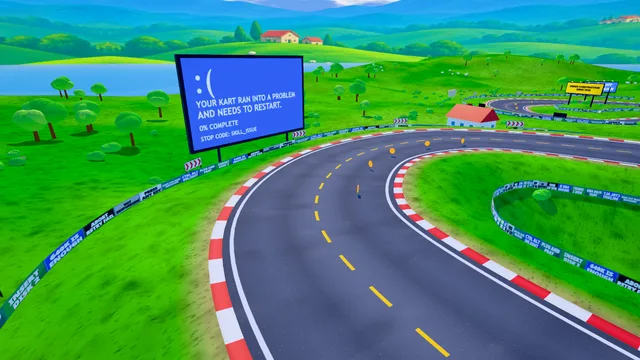
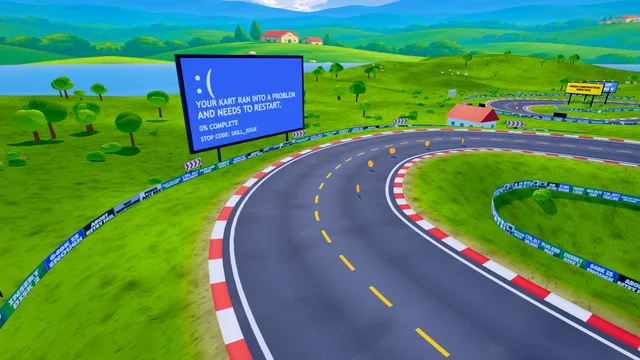
Bliss Hills: one sky and one lawn, all the way round (#65)
The photo-matched sky was a patch with an edge: from other angles it met the
ordinary sky in a visible seam, with different colors and different clouds.
The measured sky is now baked over the whole dome. The opening view still
lines up with the reference, and the same color columns and the same kind of
cloud carry on round the horizon.

The rest of the track now wears the wallpaper's greens too: terrain, cloud
shadows, trees, bushes, and the painted far hills are all on the calibrated
palette, so the famous hill no longer looks like a patch of different grass.
The far hills and the cleared horizon that the opening shot needs are shown
only during that shot.

diff --git a/src/render/cloudcard.js b/src/render/cloudcard.js
@@ -1,12 +1,18 @@
-/* A measured sky on a card: a grid of clear-sky colors and a grid of cloud cover,
-   both given in the pixel coordinates of a reference picture, baked once into a
-   texture and hung far away so that a camera at the reference viewpoint sees the
-   same sky. The clouds are generated from the cover grid (soft noise breaks up
-   its cells and shades the puffs); nothing of the picture itself is used. */
+/* A measured sky for the whole dome. A grid of clear-sky colors and a grid of
+   cloud cover, both taken from a reference picture, describe the part of the sky
+   that picture shows; the same colors and the same kind of cloud are continued
+   all the way round, so the sky has no edge. It is baked once into two textures:
+   a sharp one for the picture's own part of the sky, and a panorama for the rest.
+   The sky shader shows them by direction (see Sky.setDome), so from the
+   reference viewpoint the sky lines up with the picture, and from anywhere else
+   it is simply the sky. The clouds are generated from the cover grid and from
+   noise; nothing of the picture itself is used. */
 import * as THREE from 'three';
 import { FullScreenQuad } from 'three/addons/postprocessing/Pass.js';
 
-const NEUTRAL = /* glsl */`
+const SHADE = /* glsl */`
+  precision highp float;
+  uniform sampler2D uCover, uSky; uniform vec2 uTan, uCoverSize, uSkySize; uniform float uCoverRows;
   // the renderer's neutral tone curve, so its effect can be undone: what is baked is the color that comes out as the one wanted
   vec3 neutral(vec3 color) {
     float x = min(color.r, min(color.g, color.b)); float offset = x < 0.08 ? x - 6.25 * x * x : 0.04; color -= offset;
@@ -14,83 +20,107 @@ const NEUTRAL = /* glsl */`
     float d = 0.24, newPeak = 1.0 - d * d / (peak + d - 0.76); color *= newPeak / peak;
     float g = 1.0 - 1.0 / (0.15 * (peak - newPeak) + 1.0); return mix(color, vec3(newPeak), g);
   }
-  vec3 unNeutral(vec3 want) { vec3 c = want; for (int i = 0; i < 7; i++) c *= want / max(neutral(c), vec3(1e-4)); return c; }`;
+  vec3 unNeutral(vec3 want) { vec3 c = want; for (int i = 0; i < 7; i++) c *= want / max(neutral(c), vec3(1e-4)); return c; }
+  // noise on the direction itself, so it has no seam anywhere on the dome; K turns a direction into picture-pixel units
+  const float K = 1484.0;
+  float hash3(vec3 p) { p = fract(p * 0.3183099 + 0.1); p *= 17.0; return fract(p.x * p.y * p.z * (p.x + p.y + p.z)); }
+  float noise3(vec3 x) {
+    vec3 i = floor(x), f = fract(x); f = f * f * (3.0 - 2.0 * f);
+    return mix(mix(mix(hash3(i), hash3(i + vec3(1, 0, 0)), f.x), mix(hash3(i + vec3(0, 1, 0)), hash3(i + vec3(1, 1, 0)), f.x), f.y),
+               mix(mix(hash3(i + vec3(0, 0, 1)), hash3(i + vec3(1, 0, 1)), f.x), mix(hash3(i + vec3(0, 1, 1)), hash3(i + vec3(1, 1, 1)), f.x), f.y), f.z);
+  }
+  float fbm3(vec3 p) { float a = 0.5, s = 0.0; for (int i = 0; i < 5; i++) { s += a * noise3(p); p = p * 2.03 + 11.7; a *= 0.5; } return s; }
+  // where a direction falls in the reference picture (the viewer looks along +x; 1920 x 1080, y down)
+  vec2 pic(vec3 d) { return vec2(960.0 + (d.z / d.x) / (2.0 * uTan.x) * 1920.0, 540.0 - (d.y / d.x) / (2.0 * uTan.y) * 1080.0); }
+  // 1 inside the picture's own patch of sky, fading out just beyond its sides and top
+  float inFrame(vec3 d) {
+    if (d.x < 0.25) return 0.0;
+    vec2 p = pic(d); float o = max(max(-p.x, p.x - 1920.0), -p.y);
+    return (1.0 - smoothstep(0.0, 170.0, o)) * smoothstep(0.25, 0.45, d.x);
+  }
+  // cloud cover everywhere else: scattered cumulus on a plane overhead, plus a low band along the horizon, as in the picture
+  float fillCover(vec3 d) {
+    float up = max(d.y, 0.0);
+    vec3 q = vec3(d.x, 0.0, d.z) / (up + 0.16);
+    float puffs = smoothstep(0.50, 0.68, fbm3(q * 1.5 + 4.2)) * smoothstep(0.03, 0.14, up) * (1.0 - smoothstep(0.62, 0.92, up));
+    float band = smoothstep(0.46, 0.62, fbm3(q * 0.55 + 9.1)) * (1.0 - smoothstep(0.02, 0.17, up)) * smoothstep(-0.02, 0.03, d.y);
+    return clamp(max(puffs, band * 0.95), 0.0, 1.0);
+  }
+  float coverAt(vec3 d) {
+    float w = inFrame(d), c = fillCover(d);
+    if (w > 0.0) {
+      vec3 P = d * K; vec2 p = pic(d) + (vec2(fbm3(P / 34.0), fbm3(P / 34.0 + 7.3)) - 0.5) * 16.0;   // a soft warp, so the grid's cells never show
+      float m = p.y < uCoverRows ? texture2D(uCover, clamp(p / uCoverSize, 0.0, 1.0)).r : 0.0;
+      c = mix(c, m, w);
+    }
+    return c;
+  }
+  // the cover, billowed: big lobes push the edge in and out, smaller ones scallop it, fine ones fray it
+  float dens(vec3 d) {
+    float c = coverAt(d), e = smoothstep(0.02, 0.28, c) * (1.0 - 0.45 * smoothstep(0.55, 1.0, c)); vec3 P = d * K;
+    float lobes = abs(fbm3(P / 58.0) - 0.5) * 2.0, scallop = abs(fbm3(P / 23.0 + 3.1) - 0.5) * 2.0, fray = fbm3(P / 8.0 + 9.7) - 0.5;
+    return clamp(c + ((0.55 - lobes) * 0.5 + (0.5 - scallop) * 0.36 + fray * 0.2) * e, 0.0, 1.0);
+  }
+  // the clear sky: the picture's own colors inside its frame; beyond it, the same color columns carried on round the horizon
+  vec3 clearSky(vec3 d) {
+    float az = atan(d.z, d.x), el = asin(clamp(d.y, -1.0, 1.0));
+    float rowFlat = 540.0 - tan(clamp(el, -1.2, 1.2)) / (2.0 * uTan.y) * 1080.0, row = rowFlat, col;
+    if (abs(az) < 0.84) { vec2 p = pic(d); col = clamp(p.x, 0.0, 1920.0); row = mix(p.y, rowFlat, smoothstep(0.60, 0.84, abs(az))); }   // the frame itself reaches 0.575
+    else col = mix(1920.0, 0.0, smoothstep(2.62, 3.67, az < 0.0 ? az + 6.28318530718 : az));      // the deep side meets the hazy side behind the viewer
+    vec3 c = texture2D(uSky, vec2(col, max(row, 0.0)) / uSkySize).rgb;
+    return mix(c, c * vec3(0.5, 0.72, 0.96), smoothstep(0.37, 1.15, el));                          // deeper toward the zenith
+  }
+  vec3 shade(vec3 d) {
+    vec3 blue = clearSky(d);
+    vec3 right = normalize(vec3(-d.z, 0.0, d.x) + 1e-5), dn = right * 6.0 - vec3(0.0, 8.0, 0.0), dw = right * 20.0 - vec3(0.0, 28.0, 0.0);
+    float c0 = coverAt(d), dd = dens(d), soft = coverAt(normalize(d + (right * (fbm3(d * K / 12.0) - 0.5) + vec3(0.0, fbm3(d * K / 12.0 + 4.0) - 0.5, 0.0)) * 22.0 / K));
+    float a = max(smoothstep(0.12, 0.5, dd), 0.62 * smoothstep(0.02, 0.5, soft));                  // a firm body inside a soft, frayed fringe
+    // lit from the upper left, at two scales: the puffs, and the whole cloud
+    float near = dens(normalize(d + dn / K)) - dd, wide = dens(normalize(d + dw / K)) - dd;
+    float lit = 0.86 + near * 1.05 + wide * 0.95 + (fbm3(d * K / 15.0 + 2.0) - 0.5) * 0.22 * smoothstep(0.4, 0.9, dd);
+    lit -= 0.26 * smoothstep(0.55, 1.0, c0) * smoothstep(0.05, 0.5, c0 - coverAt(normalize(d + (right * 8.0 - vec3(0.0, 40.0, 0.0)) / K)));   // the underside of a thick cloud is in its own shade
+    vec3 cloud = mix(vec3(0.62, 0.72, 0.92), vec3(0.95, 0.955, 0.96), smoothstep(0.2, 0.98, lit));
+    cloud = mix(cloud, mix(blue, vec3(0.95), 0.8), (1.0 - smoothstep(0.1, 0.45, dd)) * 0.7);       // thin edges and wisps take on the sky
+    return unNeutral(clamp(mix(blue, cloud, a), 0.0, 0.95));
+  }`;
 
 /**
- * sky:   { cell: [w, h], colors: rows of sRGB hex strings } from the top of the frame.
- * cover: { cell, rows: strings of digits 0-9 } from the top of the frame.
- * fill:  [x, y, rx, ry] ellipses of cloud outside the frame.
- * rect:  [x0, y0, x1, y1], the part of the picture plane the card covers (it reaches past the frame).
+ * sky:   { cell: [w, h], colors: rows of sRGB hex strings } from the top of the picture.
+ * cover: { cell, rows: strings of digits 0-9 } from the top of the picture.
+ * Returns what Sky.setDome takes: { frame, frameRect, pano, el, tan, dispose }.
  */
-export function skyCard(renderer, { sky, cover, fill = [], rect, eye, fov = 40, frame = [1920, 1080], distance = 1500, exposure = 1, width = 4096, height = 1216, zenith = 0x0a55e0 }) {
-  const [x0, y0, x1, y1] = rect, CS = cover.cell, cols = Math.ceil((x1 - x0) / CS), rows = Math.ceil((y1 - y0) / CS);
-  // cloud cover over the whole card: measured inside the frame, feathered just past its edges, filled with ellipses beyond
-  const cw = cover.rows[0].length, chh = cover.rows.length, data = new Uint8Array(cols * rows);
-  const meas = (i, j) => Math.min(1, Math.max(0, (+cover.rows[Math.min(chh - 1, Math.max(0, j))][Math.min(cw - 1, Math.max(0, i))] - 1.2) / 7.6));
-  for (let j = 0; j < rows; j++) for (let i = 0; i < cols; i++) {
-    const px = x0 + (i + 0.5) * CS, py = y0 + (j + 0.5) * CS, ci = Math.floor(px / CS), cj = Math.floor(py / CS);
-    const out = Math.max(0, -px, px - frame[0], -py), below = py > chh * CS;
-    let d = below ? 0 : meas(ci, cj) * Math.max(0, 1 - out / 110);
-    if (out > 0) for (const [ex, ey, rx, ry] of fill) { const qx = (px - ex) / rx, qy = (py - ey) / ry, q = 1 - qx * qx - qy * qy; if (q > 0) d = Math.max(d, Math.min(1, q * 1.5) * Math.min(1, out / 60)); }
-    data[j * cols + i] = Math.round(d * 255);
-  }
-  const coverTex = new THREE.DataTexture(data, cols, rows, THREE.RedFormat); coverTex.magFilter = coverTex.minFilter = THREE.LinearFilter; coverTex.needsUpdate = true;
+export function bakeSkyDome(renderer, { sky, cover, fov = 40, aspect = 16 / 9, small = false }) {
+  const tanV = Math.tan(fov * Math.PI / 360), tanH = tanV * aspect;
+  const cw = cover.rows[0].length, ch = cover.rows.length, cdata = new Uint8Array(cw * ch);
+  for (let j = 0; j < ch; j++) for (let i = 0; i < cw; i++) cdata[j * cw + i] = Math.round(Math.min(1, Math.max(0, (+cover.rows[j][i] - 1.2) / 7.6)) * 255);
+  const coverTex = new THREE.DataTexture(cdata, cw, ch, THREE.RedFormat); coverTex.magFilter = coverTex.minFilter = THREE.LinearFilter; coverTex.needsUpdate = true;
   const sc = sky.colors[0].length, sr = sky.colors.length, sdata = new Uint8Array(sc * sr * 4);
   sky.colors.forEach((row, j) => row.forEach((hex, i) => { const n = parseInt(hex, 16), k = (j * sc + i) * 4; sdata[k] = n >> 16; sdata[k + 1] = (n >> 8) & 255; sdata[k + 2] = n & 255; sdata[k + 3] = 255; }));
   const skyTex = new THREE.DataTexture(sdata, sc, sr, THREE.RGBAFormat); skyTex.colorSpace = THREE.SRGBColorSpace; skyTex.magFilter = skyTex.minFilter = THREE.LinearFilter; skyTex.needsUpdate = true;
-
-  const mat = new THREE.ShaderMaterial({
-    depthTest: false, depthWrite: false,
-    uniforms: { uCover: { value: coverTex }, uSky: { value: skyTex }, uRect: { value: new THREE.Vector4(x0, y0, x1, y1) }, uSkySize: { value: new THREE.Vector2(sc * sky.cell[0], sr * sky.cell[1]) }, uZenith: { value: new THREE.Color(zenith) } },
-    vertexShader: /* glsl */`varying vec2 vUv; void main() { vUv = uv; gl_Position = vec4(position.xy, 0.0, 1.0); }`,
-    fragmentShader: /* glsl */`
-      precision highp float;
-      uniform sampler2D uCover, uSky; uniform vec4 uRect; uniform vec2 uSkySize; uniform vec3 uZenith; varying vec2 vUv;
-      float hash(vec2 p) { return fract(sin(dot(p, vec2(127.1, 311.7))) * 43758.5453); }
-      float noise(vec2 p) { vec2 i = floor(p), f = fract(p), u = f * f * (3.0 - 2.0 * f); return mix(mix(hash(i), hash(i + vec2(1, 0)), u.x), mix(hash(i + vec2(0, 1)), hash(i + vec2(1, 1)), u.x), u.y); }
-      float fbm(vec2 p) { float a = 0.5, s = 0.0; for (int i = 0; i < 5; i++) { s += a * noise(p); p = p * 2.03 + 11.7; a *= 0.5; } return s; }
-      ${NEUTRAL}
-      float coverAt(vec2 p) {
-        vec2 w = vec2(fbm(p / 34.0), fbm(p / 34.0 + 7.3)) - 0.5;                      // a soft warp, so the grid's cells never show
-        return texture2D(uCover, (p + w * 16.0 - uRect.xy) / (uRect.zw - uRect.xy)).r;
-      }
-      // the measured cover, billowed: big lobes push the edge in and out, smaller ones scallop it, fine ones fray it
-      float dens(vec2 p) {
-        float c = coverAt(p), e = smoothstep(0.02, 0.28, c) * (1.0 - 0.45 * smoothstep(0.55, 1.0, c));
-        float lobes = abs(fbm(p / 58.0) - 0.5) * 2.0, scallop = abs(fbm(p / 23.0 + 3.1) - 0.5) * 2.0, fray = fbm(p / 8.0 + 9.7) - 0.5;
-        return clamp(c + ((0.55 - lobes) * 0.5 + (0.5 - scallop) * 0.36 + fray * 0.2) * e, 0.0, 1.0);
-      }
-      void main() {
-        vec2 p = vec2(mix(uRect.x, uRect.z, vUv.x), mix(uRect.w, uRect.y, vUv.y));
-        vec3 blue = texture2D(uSky, vec2(p.x, max(p.y, 0.0)) / uSkySize).rgb;
-        blue = mix(blue, uZenith, smoothstep(0.0, -520.0, p.y) * 0.55);                // deeper above the top of the frame
-        float d = dens(p), soft = coverAt(p + vec2(fbm(p / 12.0) - 0.5, fbm(p / 12.0 + 4.0) - 0.5) * 22.0);
-        float a = max(smoothstep(0.12, 0.5, d), 0.62 * smoothstep(0.02, 0.5, soft));   // a firm body inside a soft, frayed fringe
-        // lit from the upper left, at two scales: the puffs, and the whole cloud
-        float near = dens(p + vec2(6.0, 8.0)) - d, wide = dens(p + vec2(20.0, 28.0)) - d;
-        float lit = 0.86 + near * 1.05 + wide * 0.95 + (fbm(p / 15.0 + 2.0) - 0.5) * 0.22 * smoothstep(0.4, 0.9, d);
-        // the underside of a thick cloud falls into its own shade
-        lit -= 0.26 * smoothstep(0.55, 1.0, coverAt(p)) * smoothstep(0.05, 0.5, coverAt(p) - coverAt(p + vec2(8.0, 40.0)));
-        vec3 cloud = mix(vec3(0.62, 0.72, 0.92), vec3(0.95, 0.955, 0.96), smoothstep(0.2, 0.98, lit));
-        cloud = mix(cloud, mix(blue, vec3(0.95), 0.8), (1.0 - smoothstep(0.1, 0.45, d)) * 0.7);    // thin edges and wisps take on the sky
-        vec3 want = mix(blue, cloud, a);
-        float edge = smoothstep(uRect.x, uRect.x + 320.0, p.x) * (1.0 - smoothstep(uRect.z - 320.0, uRect.z, p.x)) * smoothstep(uRect.y, uRect.y + 260.0, p.y) * (1.0 - smoothstep(uRect.w - 26.0, uRect.w, p.y));
-        gl_FragColor = vec4(unNeutral(clamp(want, 0.0, 0.95)), edge);
-      }`,
-  });
-  const rt = new THREE.WebGLRenderTarget(width, height, { depthBuffer: false, type: THREE.HalfFloatType, generateMipmaps: true, minFilter: THREE.LinearMipmapLinearFilter, magFilter: THREE.LinearFilter });
-  const quad = new FullScreenQuad(mat), prev = renderer.getRenderTarget();
-  renderer.setRenderTarget(rt); renderer.clear(); quad.render(renderer); renderer.setRenderTarget(prev);
-  quad.dispose(); mat.dispose(); coverTex.dispose(); skyTex.dispose();
-  rt.texture.anisotropy = 4;
-
-  const mPerPx = 2 * distance * Math.tan(fov * Math.PI / 360) / frame[1], g = 1 / exposure;
-  const mesh = new THREE.Mesh(new THREE.PlaneGeometry((x1 - x0) * mPerPx, (y1 - y0) * mPerPx), new THREE.MeshBasicMaterial({ map: rt.texture, transparent: true, depthWrite: false, fog: false, color: new THREE.Color(g, g, g) }));
-  mesh.rotation.y = -Math.PI / 2;      // face west, picture-right toward +z
-  mesh.position.set(eye[0] + distance, eye[1] + (frame[1] / 2 - (y0 + y1) / 2) * mPerPx, eye[2] + ((x0 + x1) / 2 - frame[0] / 2) * mPerPx);
-  mesh.renderOrder = -900; mesh.name = 'sky-card';
-  mesh.userData.dispose = () => { rt.dispose(); mesh.geometry.dispose(); mesh.material.dispose(); };
-  return mesh;
+  const uniforms = { uCover: { value: coverTex }, uSky: { value: skyTex }, uTan: { value: new THREE.Vector2(tanH, tanV) }, uCoverSize: { value: new THREE.Vector2(cw * cover.cell, ch * cover.cell) }, uCoverRows: { value: ch * cover.cell }, uSkySize: { value: new THREE.Vector2(sc * sky.cell[0], sr * sky.cell[1]) } };
+  const vertexShader = /* glsl */`varying vec2 vUv; void main() { vUv = uv; gl_Position = vec4(position.xy, 0.0, 1.0); }`;
+  const bake = (w, h, extra, main, opts = {}) => {
+    const mat = new THREE.ShaderMaterial({ depthTest: false, depthWrite: false, uniforms: { ...uniforms, ...extra }, vertexShader, fragmentShader: SHADE + main });
+    const rt = new THREE.WebGLRenderTarget(w, h, { depthBuffer: false, type: THREE.HalfFloatType, magFilter: THREE.LinearFilter, minFilter: THREE.LinearFilter, generateMipmaps: false, ...opts });
+    const quad = new FullScreenQuad(mat), prev = renderer.getRenderTarget();
+    renderer.setRenderTarget(rt); renderer.clear(); quad.render(renderer); renderer.setRenderTarget(prev);
+    quad.dispose(); mat.dispose();
+    return rt;
+  };
+  // the picture's own patch of sky, sharp: a little wider and taller than the frame, in the picture's pixels
+  const frameRect = [-180, -280, 2100, 560];
+  const frame = bake(small ? 2048 : 4096, small ? 756 : 1512, { uRect: { value: new THREE.Vector4(...frameRect) } }, /* glsl */`
+    uniform vec4 uRect; varying vec2 vUv;
+    void main() { vec2 p = vec2(mix(uRect.x, uRect.z, vUv.x), mix(uRect.w, uRect.y, vUv.y));
+      gl_FragColor = vec4(shade(normalize(vec3(1.0, (540.0 - p.y) / 1080.0 * 2.0 * uTan.y, (p.x - 960.0) / 1920.0 * 2.0 * uTan.x))), 1.0); }`);
+  // everything else: all the way round, from just under the horizon to well up the sky
+  const el = [-3 * Math.PI / 180, 56 * Math.PI / 180];
+  const pano = bake(small ? 2048 : 4096, small ? 330 : 660, { uEl: { value: new THREE.Vector2(...el) } }, /* glsl */`
+    uniform vec2 uEl; varying vec2 vUv;
+    void main() { float az = (vUv.x - 0.5) * 6.28318530718, e = mix(uEl.x, uEl.y, vUv.y);
+      gl_FragColor = vec4(shade(vec3(cos(e) * cos(az), sin(e), cos(e) * sin(az))), 1.0); }`, { wrapS: THREE.RepeatWrapping });
+  coverTex.dispose(); skyTex.dispose();
+  return { frame: frame.texture, frameRect, pano: pano.texture, el, tan: [tanH, tanV], dispose: () => { frame.dispose(); pano.dispose(); } };
 }
 
 /** A flat silhouette of far hills on the same picture plane: skyline points in picture pixels, colored top to bottom. */

diff --git a/src/tracks/bliss-hills.js b/src/tracks/bliss-hills.js
@@ -8,8 +8,8 @@ import { Scenery, partsOf } from '../render/scenery.js';
 import * as P from '../models/props.js';
 import * as B from '../models/props-bliss-hills.js';
 import * as S from '../models/props-silicon-valley.js';   // the sign kit: canvas atlas, baker, text fitting
-import { skyCard, farHills } from '../render/cloudcard.js';
-import { VIEW, HILL, SKY, CLOUD_COVER, CLOUD_FILL, FAR_HILLS, dipRadius, wallpaperHeight, wallpaperWeight, wallpaperPaint, toPicture } from '../content/bliss-wallpaper.js';
+import { bakeSkyDome, farHills } from '../render/cloudcard.js';
+import { VIEW, HILL, SKY, CLOUD_COVER, FAR_HILLS, dipRadius, wallpaperHeight, wallpaperWeight, wallpaperPaint, toPicture } from '../content/bliss-wallpaper.js';
 
 const LAKE = { x: -62, z: 42, r: 34 };
 const MEADOW = { x: -20, z: 136, r: 40 };
@@ -52,8 +52,8 @@ export default {
   width: 18,
   sky: 'day',
   // a deep, clean blue with the sun behind the viewer; the procedural clouds keep out of the east, where the authored ones hang
-  skyOverrides: { zenith: 0x1468ee, horizon: 0x8fbcf3, cloudCover: 0.5, sunDir: [-0.5, 0.74, -0.38], clearSky: [90, 62], fog: 0xa3c6f3, fogNear: 520, fogFar: 1900 },
-  backdrop: { img: 'assets/backdrops/bliss-hills.webp', top: 27, bottom: -9, rot: 0.3 },
+  skyOverrides: { zenith: 0x1468ee, horizon: 0x8fbcf3, cloudCover: 0.5, sunDir: [-0.5, 0.74, -0.38], clearSky: [90, 50], fog: 0xa3c6f3, fogNear: 520, fogFar: 1900 },
+  backdrop: { img: 'assets/backdrops/bliss-hills.webp', top: 27, bottom: -9, rot: 0.3, tint: [1.0, 0.86, 0.42] },   // the painted far hills, pulled toward the same greens
   // the opening shot is the wallpaper, shown without the game's color grade so the measured colors come out as measured
   intro: [{ pos: [VIEW.x, VIEW.eye, VIEW.z], look: [VIEW.x + 100, VIEW.eye, VIEW.z], fov: VIEW.fov, dur: 3.2, grade: { sat: 1, contrast: 1, vignette: 0 } },
     { pos: [-34, 30, 8], look: [CLIPPY.x, 26, CLIPPY.z], pos1: [-10, 30, 16], look1: [CLIPPY.x, 28, CLIPPY.z], fov: 45, dur: 3 }],   // then Clippy, offering to help
@@ -141,7 +141,10 @@ export default {
   terrain: {
     cell: 3, margin: 160, marginX: [160, 405], marginZ: [215, 160], blend: 22, water: -1.4,
     color(x, z, h, slope, over, out) {
-      const w = wallpaperWeight(x, z); if (w <= 0) return;
+      const w = wallpaperWeight(x, z);
+      // cloud shadows drift over every hill the way they lie over the famous one: broad, soft, and olive
+      if (w < 1) { const sh = smoothstep(0.44, 0.62, fbm(x * 0.0052 + 3.1, z * 0.0052 + 1.7, 2, 91)) * 0.5 * (1 - w); out[0] *= 1 - sh * 0.62; out[1] *= 1 - sh * 0.5; out[2] *= 1 - sh * 0.35; }
+      if (w <= 0) return;
       const c = [0, 0, 0], p = x - VIEW.x > 2 ? toPicture(x, h, z) : [960, 1070];
       wallpaperPaint(p[0], p[1], c); mixInto(out, c, w);
     },
@@ -174,7 +177,8 @@ export default {
     road: { base: 0x5d6373, line: 0xffffff, center: 0xffd23c },
     kerb: [0xe23b3b, 0xf7f7f2],
     shoulder: 0xd9c78f,
-    terrain: { low: 0x4fb83a, high: 0x7ed957, dry: 0xa8e06a, rock: 0x9c9388, sand: 0xe9d7a2, dirt: 0xbf9f6e },
+    // the whole track wears the wallpaper's greens (the calibrated colors of its lit, middling, and brightest grass), so the famous hill is not a patch of different lawn
+    terrain: { low: 0x6f9f24, high: 0x97cb1d, dry: 0xa3d61c, rock: 0x9c9388, sand: 0xe9d7a2, dirt: 0xbf9f6e },
     water: 0x2f9be6,
     ads: ['HAVE YOU TRIED REBOOTING', 'NOT RESPONDING', '640K IS ENOUGH', 'DEFRAG TODAY', 'PRESS ANY KEY', 'ABORT RETRY FAIL', 'INSERT DISK 2', 'DIAL-UP SPEEDS', 'CTRL ALT DELIGHT', 'SAFE MODE', 'SCREENSAVER INC', 'PLUG AND PRAY'],
   },
@@ -192,11 +196,19 @@ export default {
     // nothing is ever planted in the wallpaper view: it stays a hill, a field, and a sky
     const free = (x, z) => wallpaperWeight(x, z) <= 0 && !(x > 118 && z < 60 && z > -140) && !taken.some(([tx, tz, r]) => (tx - x) ** 2 + (tz - z) ** 2 < r * r);
 
-    // the wallpaper's sky and clouds, hung far to the east, with the far hills that show over the right shoulder
+    // the wallpaper's sky, continued over the whole dome so it has no edge, and the far hills that show over the right shoulder
     {
-      const small = (ctx.gfx.q?.pixels || 2e6) < 1.2e6, exposure = ctx.gfx.renderer.toneMappingExposure, eye = [VIEW.x, VIEW.eye, VIEW.z];
-      ctx.group.add(skyCard(ctx.gfx.renderer, { sky: SKY, cover: CLOUD_COVER, fill: CLOUD_FILL, rect: [-700, -430, 2620, 560], eye, fov: VIEW.fov, distance: 1500, exposure, width: small ? 2048 : 4096, height: small ? 608 : 1216 }));
-      ctx.group.add(farHills({ points: FAR_HILLS, eye, fov: VIEW.fov, exposure }));
+      const small = (ctx.gfx.q?.pixels || 2e6) < 1.2e6 || matchMedia('(pointer: coarse)').matches, exposure = ctx.gfx.renderer.toneMappingExposure, eye = [VIEW.x, VIEW.eye, VIEW.z];
+      const dome = bakeSkyDome(ctx.gfx.renderer, { sky: SKY, cover: CLOUD_COVER, fov: VIEW.fov, small });
+      ctx.gfx.sky.setDome(dome);
+      const keeper = new THREE.Object3D(); keeper.userData.dispose = dome.dispose; ctx.group.add(keeper);
+      // The far hills and the cleared horizon belong to the opening shot only: they are composed for that one viewpoint.
+      // Once the camera leaves it, the painted horizon runs all the way round like everywhere else.
+      const far = farHills({ points: FAR_HILLS, eye, fov: VIEW.fov, exposure }); ctx.group.add(far);
+      const clear = ctx.gfx.sky.uniforms.uClear.value, clearZ = clear.z;
+      const opening = () => !!(view.intro && !view.intro.done && view.intro.t < view.intro.shots[0].dur);
+      const apply = () => { const on = opening(); far.visible = on; clear.z = on ? clearZ : -2; };
+      apply(); anim.push(apply);
     }
     // the near field: a dark earth bank where the dip runs out of the picture on the left, dry stalks along it, and buttercups
     {
@@ -345,23 +357,23 @@ export default {
     for (const [cx, cz] of [[-90, 146], [-98, 136], [-30, 118], [-40, 124]]) for (let k = 0; k < 4; k++) treeSpots.push({ x: cx + rng.range(-5, 5), z: cz + rng.range(-5, 5), y: 0, yaw: 0 });
     treeSpots.forEach(t => { t.y = track.terrainHeight(t.x, t.z); });
     treeSpots.push(...sc.scatter({ count: 42, min: 40, max: 230, maxSlope: 0.55, minGap: 12, where: clear }));
-    const oakA = partsOf(P.roundTree(1, { h: 8, leafA: 0x6fcf4a, leafB: 0x92de5c })), oakB = partsOf(P.roundTree(2, { h: 9.5, leafA: 0x5cc243, leafB: 0x7fd456 })), oakC = partsOf(P.roundTree(3, { h: 6.5, leafA: 0x86d957, leafB: 0xa6e46a }));
+    const oakA = partsOf(P.roundTree(1, { h: 8, leafA: 0x5f9e22, leafB: 0x86c02e })), oakB = partsOf(P.roundTree(2, { h: 9.5, leafA: 0x4f8a1e, leafB: 0x74ae2a })), oakC = partsOf(P.roundTree(3, { h: 6.5, leafA: 0x7fb62c, leafB: 0xa0cf3a }));
     sc.instances(oakA, treeSpots.filter((_, i) => i % 3 === 0), { scale: [0.85, 1.45], yaw: 'random', tilt: 0.04 });
     sc.instances(oakB, treeSpots.filter((_, i) => i % 3 === 1), { scale: [0.85, 1.5], yaw: 'random', tilt: 0.04 });
     sc.instances(oakC, treeSpots.filter((_, i) => i % 3 === 2), { scale: [0.85, 1.35], yaw: 'random', tilt: 0.04 });
 
     // flowering bushes everywhere close to the road, and wildflowers in the meadow
     const low = sc.scatter({ count: 250, min: 14.5, max: 60, maxSlope: 0.7, minGap: 2.6, where: (x, z) => free(x, z) && !nearLake(x, z) && !inMeadow(x, z) });
-    sc.instances(partsOf(P.bush(1, { color: 0x5fc24a, flower: 0xffe04a })), low.filter((_, i) => i % 4 === 0), { scale: [0.8, 1.6], yaw: 'random' });
-    sc.instances(partsOf(P.bush(2, { color: 0x72cf52, flower: 0xffffff })), low.filter((_, i) => i % 4 === 1), { scale: [0.8, 1.5], yaw: 'random' });
-    sc.instances(partsOf(P.bush(3, { color: 0x58b948, flower: 0xff8ac4 })), low.filter((_, i) => i % 4 === 2), { scale: [0.8, 1.5], yaw: 'random' });
-    sc.instances(partsOf(P.bush(5, { color: 0x6ac94e, flower: 0xffe04a })), low.filter((_, i) => i % 4 === 3), { scale: [0.7, 1.3], yaw: 'random' });
+    sc.instances(partsOf(P.bush(1, { color: 0x5a9a22, flower: 0xffe04a })), low.filter((_, i) => i % 4 === 0), { scale: [0.8, 1.6], yaw: 'random' });
+    sc.instances(partsOf(P.bush(2, { color: 0x70ae2a, flower: 0xffffff })), low.filter((_, i) => i % 4 === 1), { scale: [0.8, 1.5], yaw: 'random' });
+    sc.instances(partsOf(P.bush(3, { color: 0x528f20, flower: 0xff8ac4 })), low.filter((_, i) => i % 4 === 2), { scale: [0.8, 1.5], yaw: 'random' });
+    sc.instances(partsOf(P.bush(5, { color: 0x68a628, flower: 0xffe04a })), low.filter((_, i) => i % 4 === 3), { scale: [0.7, 1.3], yaw: 'random' });
     const meadowFlowers = sc.scatter({ count: 50, min: 8, max: 40, maxSlope: 0.5, minGap: 4, where: (x, z) => inMeadow(x, z) });
-    sc.instances(partsOf(P.bush(7, { color: 0x7fd456, flower: 0xffffff })), meadowFlowers, { scale: [0.4, 0.7], yaw: 'random', cast: false });
+    sc.instances(partsOf(P.bush(7, { color: 0x86bc30, flower: 0xffffff })), meadowFlowers, { scale: [0.4, 0.7], yaw: 'random', cast: false });
     // reeds and rocks round the lake
     const shore = sc.scatter({ count: 40, min: 12, max: 90, maxSlope: 0.9, minGap: 3, where: (x, z, h) => h > track.water + 0.2 && h < track.water + 1.6 });
     sc.instances(partsOf(P.rock(2, { r: 1.1 })), shore.filter((_, i) => i % 3 === 0), { scale: [0.6, 1.6], yaw: 'random', sink: 0.2, tints: [0xb8b0a4, 0xa39c92, 0xc7bfb2] });
-    sc.instances(partsOf(P.bush(6, { color: 0x4fa83e })), shore.filter((_, i) => i % 3 !== 0), { scale: [0.7, 1.2], yaw: 'random' });
+    sc.instances(partsOf(P.bush(6, { color: 0x4a8420 })), shore.filter((_, i) => i % 3 !== 0), { scale: [0.7, 1.2], yaw: 'random' });
 
     // arrow boards on the outside of every real corner
     const chev = P.chevronBoard();

diff --git a/src/render/sky.js b/src/render/sky.js
@@ -56,7 +56,8 @@ const skyFrag = /* glsl */`
   uniform vec3 uZenith, uHorizon, uGround, uSun, uSunDir, uCloud, uCloudShade;
   uniform float uTime, uCover, uScale, uStars, uCloudsOn, uGain;
   uniform vec3 uClear;
-  uniform sampler2D uPano; uniform float uPanoOn, uPanoTop, uPanoBottom, uPanoRot;
+  uniform sampler2D uPano; uniform float uPanoOn, uPanoTop, uPanoBottom, uPanoRot; uniform vec3 uPanoTint;
+  uniform sampler2D uDomeFrame, uDomePano; uniform float uDomeOn; uniform vec4 uDomeRect; uniform vec2 uDomeEl, uDomeTan;
 
   float hash(vec2 p) { return fract(sin(dot(p, vec2(127.1, 311.7))) * 43758.5453); }
   float noise(vec2 p) {
@@ -71,6 +72,17 @@ const skyFrag = /* glsl */`
     // gradient: ground haze -> horizon -> zenith
     vec3 col = mix(uHorizon, uZenith, pow(smoothstep(0.0, 1.0, max(h, 0.0)), 0.55));
     col = mix(col, uGround, smoothstep(0.0, -0.25, h));
+    // a baked sky for the whole dome (see cloudcard.js): a panorama all the way round, and a sharper patch where a reference view looks
+    if (uDomeOn > 0.5) {
+      float daz = atan(d.z, d.x), del = asin(clamp(h, -1.0, 1.0));
+      col = texture2D(uDomePano, vec2(daz / 6.28318530718 + 0.5, clamp((del - uDomeEl.x) / (uDomeEl.y - uDomeEl.x), 0.004, 0.996))).rgb;
+      if (d.x > 0.2) {
+        vec2 dp = vec2(960.0 + (d.z / d.x) / (2.0 * uDomeTan.x) * 1920.0, 540.0 - (d.y / d.x) / (2.0 * uDomeTan.y) * 1080.0);
+        float inside = min(min(dp.x - uDomeRect.x, uDomeRect.z - dp.x), min(dp.y - uDomeRect.y, uDomeRect.w - dp.y));
+        float w = smoothstep(8.0, 150.0, inside) * smoothstep(0.2, 0.36, d.x);
+        if (w > 0.0) col = mix(col, texture2D(uDomeFrame, vec2((dp.x - uDomeRect.x) / (uDomeRect.z - uDomeRect.x), (uDomeRect.w - dp.y) / (uDomeRect.w - uDomeRect.y))).rgb, w);
+      }
+    }
     // sun disc and glow
     float sd = max(dot(d, normalize(uSunDir)), 0.0);
     col += uSun * (pow(sd, 350.0) * 3.0 + pow(sd, 24.0) * 0.22 + pow(sd, 4.0) * 0.08);
@@ -81,7 +93,7 @@ const skyFrag = /* glsl */`
       col += vec3(st) * uStars * smoothstep(0.02, 0.3, h);
     }
     // clouds: projected onto a plane above the viewer, puffy thresholded noise with a lit top
-    if (uCloudsOn > 0.5 && h > 0.015) {
+    if (uCloudsOn > 0.5 && uDomeOn < 0.5 && h > 0.015) {
       vec2 cp = d.xz / (h + 0.12) * 1.15 * uScale + vec2(uTime * 0.006, uTime * 0.002);
       float n = fbm(cp);
       float n2 = fbm(cp + vec2(0.06, 0.04) * normalize(uSunDir.xz + 0.001));
@@ -104,8 +116,11 @@ const skyFrag = /* glsl */`
         float u = fract(atan(d.x, d.z) / 6.28318530718 + uPanoRot);
         u = u > 0.5 ? (1.0 - u) * 2.0 : u * 2.0;
         vec4 p = texture2D(uPano, vec2(u, v));
-        vec3 pc = mix(p.rgb, uHorizon, 0.16);
-        col = mix(col, pc, p.a * smoothstep(0.0, 0.03, v));
+        // an optional tint for the painted horizon's greens only (its blue mountains and its roofs keep their color)
+        vec3 pt = mix(p.rgb, p.rgb * uPanoTint, clamp((p.g - max(p.r, p.b)) * 4.0, 0.0, 1.0));
+        vec3 pc = mix(pt, uHorizon, 0.16);
+        float keep = uClear.z > -1.5 ? 1.0 - smoothstep(uClear.z - 0.42, uClear.z + 0.1, dot(normalize(d.xz + 1e-5), uClear.xy)) : 1.0;   // the cleared wedge shows no painted horizon either
+        col = mix(col, pc, p.a * smoothstep(0.0, 0.03, v) * keep);
       }
     }
     gl_FragColor = vec4(col * uGain, 1.0);
@@ -122,7 +137,8 @@ export class Sky {
       uTime: { value: 0 }, uGain: { value: 1 }, uCover: { value: p.cloudCover }, uScale: { value: p.cloudScale }, uStars: { value: p.stars }, uCloudsOn: { value: 1 },
       // clearSky: [compass bearing of the middle of the wedge (0 = +z, 90 = +x), half-width], in degrees; z = -2 means none
       uClear: { value: p.clearSky ? new THREE.Vector3(Math.sin(p.clearSky[0] * Math.PI / 180), Math.cos(p.clearSky[0] * Math.PI / 180), Math.cos(p.clearSky[1] * Math.PI / 180)) : new THREE.Vector3(1, 0, -2) },
-      uPano: { value: null }, uPanoOn: { value: 0 }, uPanoTop: { value: 0.6 }, uPanoBottom: { value: -0.12 }, uPanoRot: { value: 0 },
+      uDomeFrame: { value: null }, uDomePano: { value: null }, uDomeOn: { value: 0 }, uDomeRect: { value: new THREE.Vector4() }, uDomeEl: { value: new THREE.Vector2(0, 1) }, uDomeTan: { value: new THREE.Vector2(1, 1) },
+      uPano: { value: null }, uPanoTint: { value: new THREE.Vector3(1, 1, 1) }, uPanoOn: { value: 0 }, uPanoTop: { value: 0.6 }, uPanoBottom: { value: -0.12 }, uPanoRot: { value: 0 },
     };
     const mat = new THREE.ShaderMaterial({ uniforms: this.uniforms, vertexShader: skyVert, fragmentShader: skyFrag, side: THREE.BackSide, depthWrite: false, depthTest: true, fog: false, toneMapped: true });
     this.mesh = new THREE.Mesh(new THREE.SphereGeometry(1, 48, 24), mat);
@@ -130,10 +146,15 @@ export class Sky {
     this.sunDir = this.uniforms.uSunDir.value;
   }
   /** top/bottom: elevation in degrees covered by the image. rot: turns (0..1) to spin it around. */
-  setPanorama(tex, { top = 28, bottom = -8, rot = 0 } = {}) {
+  setPanorama(tex, { top = 28, bottom = -8, rot = 0, tint = null } = {}) {
+    if (tint) this.uniforms.uPanoTint.value.set(...tint);
     tex.colorSpace = THREE.SRGBColorSpace; tex.wrapS = THREE.ClampToEdgeWrapping; tex.wrapT = THREE.ClampToEdgeWrapping;
     tex.generateMipmaps = true; tex.minFilter = THREE.LinearMipmapLinearFilter; tex.anisotropy = 4;
     this.uniforms.uPano.value = tex; this.uniforms.uPanoOn.value = 1; this.uniforms.uPanoTop.value = top * Math.PI / 180; this.uniforms.uPanoBottom.value = bottom * Math.PI / 180; this.uniforms.uPanoRot.value = rot;
+  }
+  /** Show a baked sky over the whole dome in place of the gradient and the procedural clouds (see bakeSkyDome in cloudcard.js). */
+  setDome(dome) {
+    const u = this.uniforms; u.uDomeFrame.value = dome.frame; u.uDomePano.value = dome.pano; u.uDomeRect.value.set(...dome.frameRect); u.uDomeEl.value.set(...dome.el); u.uDomeTan.value.set(...dome.tan); u.uDomeOn.value = 1;
   }
   update(time) { this.uniforms.uTime.value = time; }
   /** Bake a blurred environment map from this sky for image-based lighting. */

diff --git a/src/content/bliss-wallpaper.js b/src/content/bliss-wallpaper.js
@@ -123,10 +123,5 @@ export const CLOUD_COVER = { cell: 12, rows: [
   '0000000000000000000000000000000000000000000000000000000000000000000000000000000000000000000000000000000000000000000000000000000000000000000000000000000000100000',
   '0000000000000000000000000000000000000000000000000000000000000000000000000000000000000000000000000000000000000000000000000000000000000000000000000000000000000000',
 ] };
-/* Clouds beyond the edges of the frame, to fill the sky around the view: [x, y, rx, ry] ellipses in picture pixels. */
-export const CLOUD_FILL = [
-  [-330, 110, 170, 72], [-250, 160, 110, 50], [-520, 320, 210, 45], [-150, 420, 130, 22], [2190, 130, 180, 78], [2300, 90, 100, 60], [2400, 330, 230, 48], [2130, 420, 150, 34], [2090, 250, 70, 34],
-  [280, -210, 200, 80], [420, -170, 120, 60], [1100, -250, 260, 88], [1250, -200, 140, 60], [1800, -190, 180, 68], [-220, -300, 220, 78], [2320, -260, 200, 70], [700, -110, 150, 30], [-420, -90, 200, 34],
-];
 /* The far hills that show over the right shoulder: skyline points in picture pixels, left to right. */
 export const FAR_HILLS = [[1560, 500], [1610, 478], [1655, 470], [1700, 466], [1745, 458], [1785, 452], [1812, 450], [1840, 456], [1870, 466], [1895, 462], [1925, 458], [1960, 464], [2010, 470], [2080, 482], [2160, 500]];
